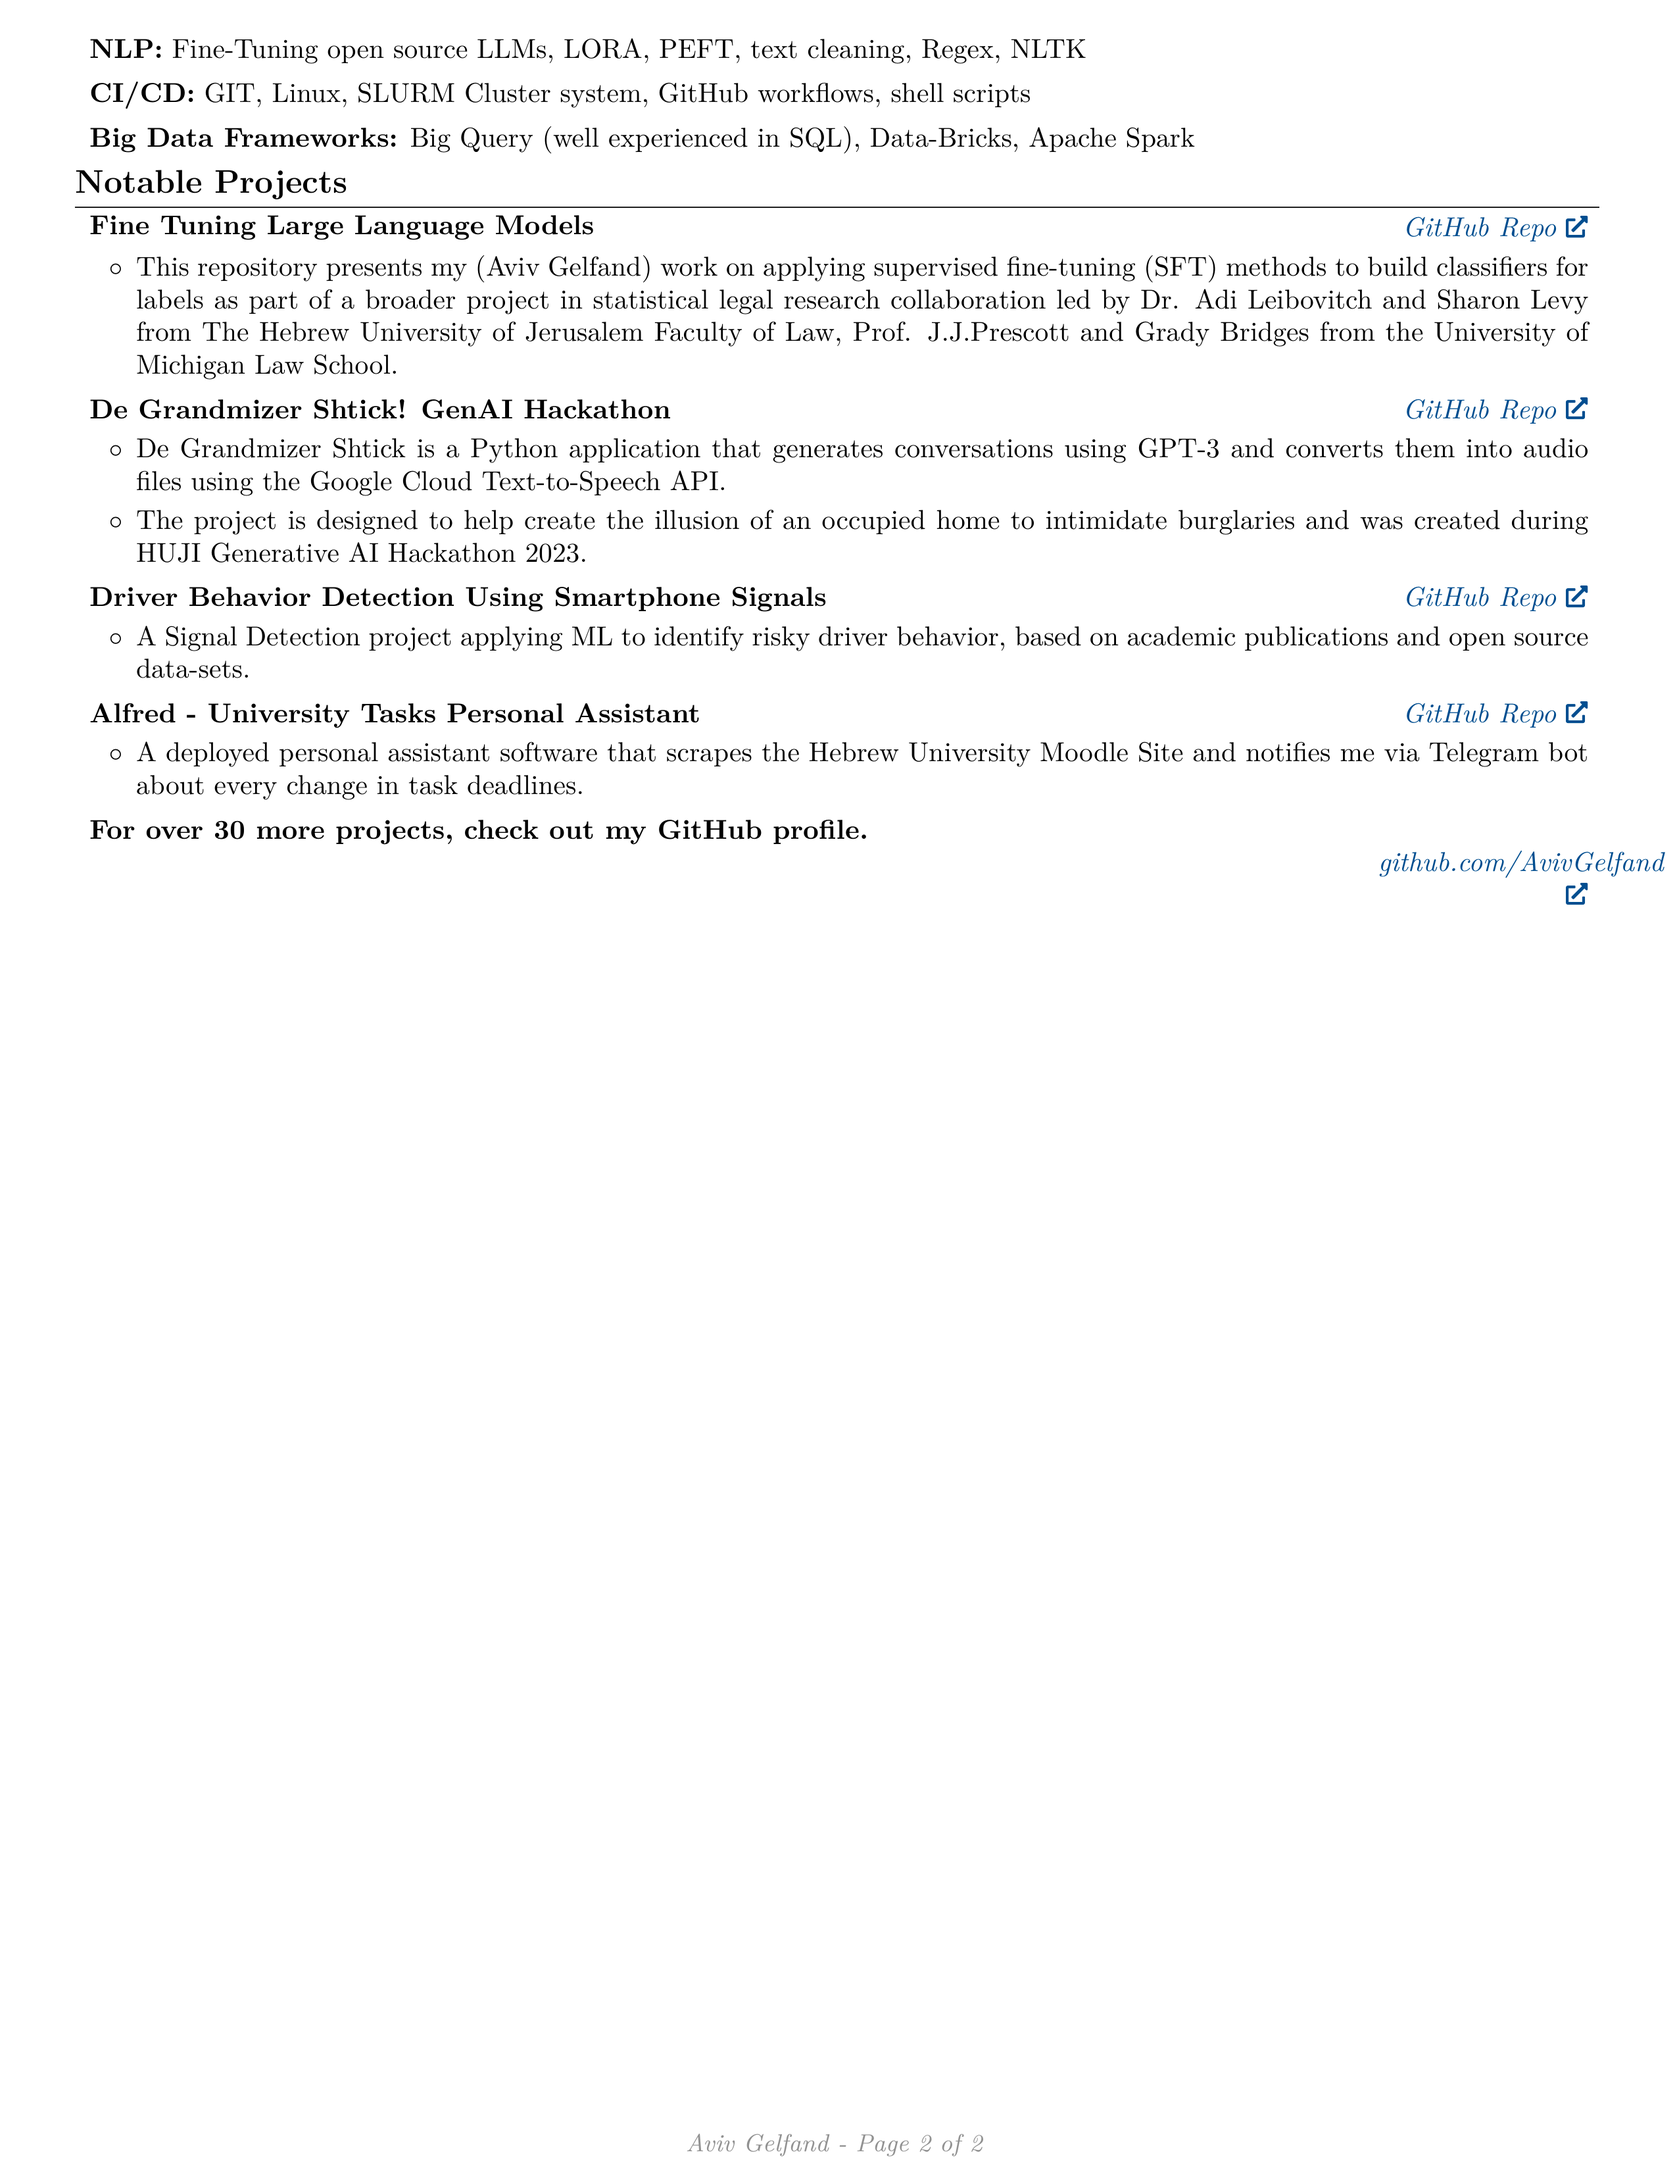
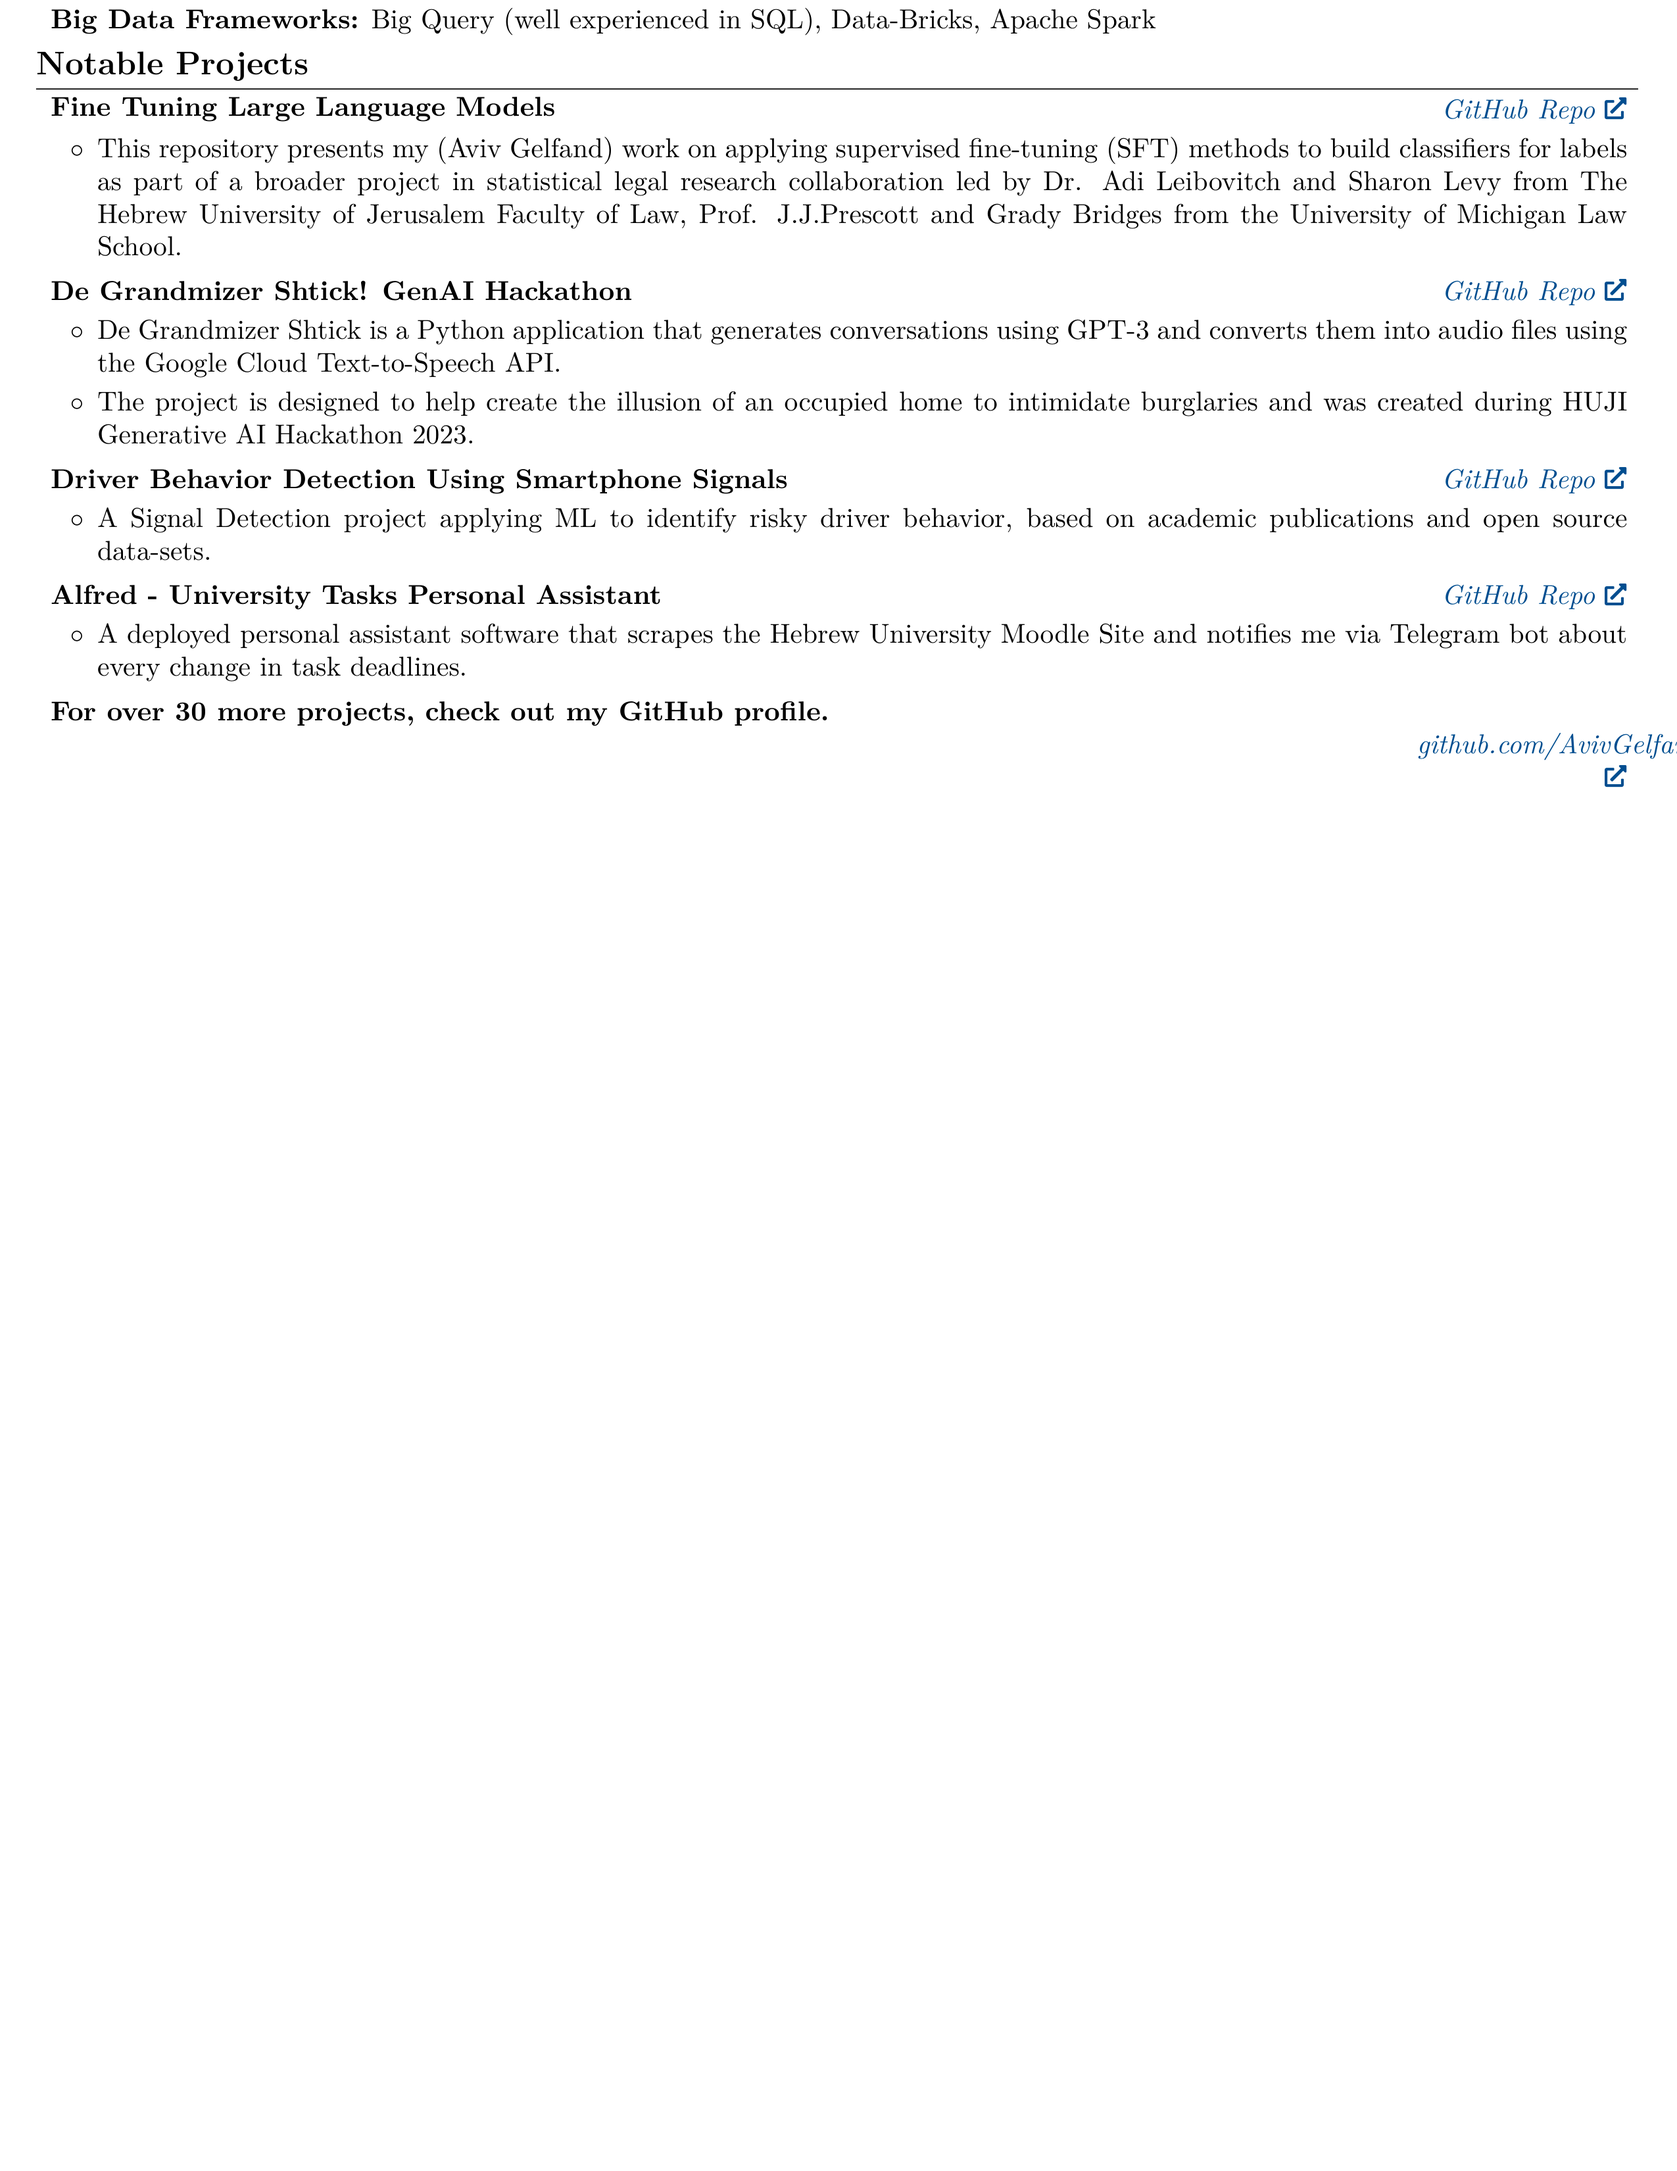
Render the latest CV

Changed region(s): [[0.031, 0.0, 0.9604, 0.3745], [0.5886, 0.1873, 0.6196, 0.2185], [0.4027, 0.3745, 0.4337, 0.4058]]

diff --git a/Aviv_Gelfand_CV.tex b/Aviv_Gelfand_CV.tex
@@ -3,11 +3,11 @@
 % Packages:
 \usepackage[
     ignoreheadfoot, % set margins without considering header and footer
-    top=0.5 cm, % seperation between body and page edge from the top
-    bottom=0.5 cm, % seperation between body and page edge from the bottom
-    left=1 cm, % seperation between body and page edge from the left
-    right=1 cm, % seperation between body and page edge from the right
-    footskip=0.25 cm, % seperation between body and footer
+    top=0.1 cm, % seperation between body and page edge from the top
+    bottom=0.1 cm, % seperation between body and page edge from the bottom
+    left=0.5 cm, % seperation between body and page edge from the left
+    right=0.5 cm, % seperation between body and page edge from the right
+    footskip=0.05 cm, % seperation between body and footer
     % showframe % for debugging 
 ]{geometry} % for adjusting page geometry
 \usepackage{titlesec} % for customizing section titles
@@ -53,13 +53,7 @@
 \setlength{\parindent}{0pt} % no indentation
 \setlength{\topskip}{0pt} % no top skip
 \setlength{\columnsep}{0cm} % set column seperation
-\makeatletter
-\let\ps@customFooterStyle\ps@plain % Copy the plain style to customFooterStyle
-\patchcmd{\ps@customFooterStyle}{\thepage}{
-    \color{gray}\textit{\small Aviv Gelfand - Page \thepage{} of \pageref*{LastPage}}
-}{}{} % replace number by desired string
-\makeatother
-\pagestyle{customFooterStyle}
+\pagenumbering{gobble} % no page numbering
 
 \titleformat{\section}{\needspace{4\baselineskip}\bfseries\large}{}{0pt}{}[\vspace{1pt}\titlerule]
 
@@ -130,8 +124,8 @@
 \newcommand{\placelastupdatedtext}{% \placetextbox{<horizontal pos>}{<vertical pos>}{<stuff>}
   \AddToShipoutPictureFG*{% Add <stuff> to current page foreground
     \put(
-        \LenToUnit{\paperwidth-1 cm-0.15 cm+0.05cm},
-        \LenToUnit{\paperheight-0.25 cm}
+        \LenToUnit{\paperwidth-0.5 cm-0.15 cm+0.05cm},
+        \LenToUnit{\paperheight-0.05 cm}
     ){\vtop{{\null}\makebox[0pt][c]{
         \small\color{gray}\textit{Last updated in September 2024}\hspace{\widthof{Last updated in September 2024}}
     }}}%
